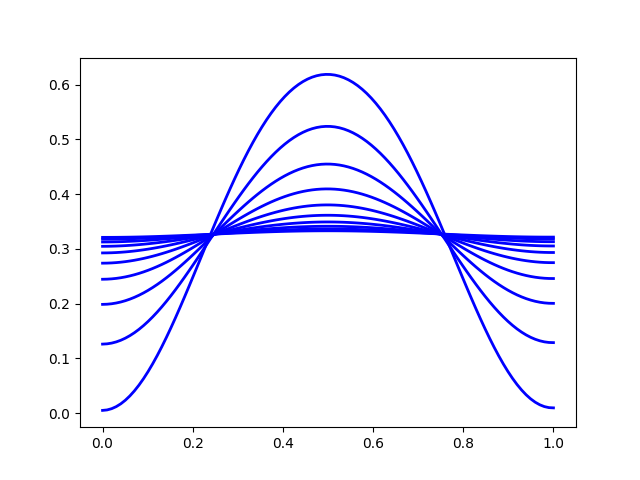
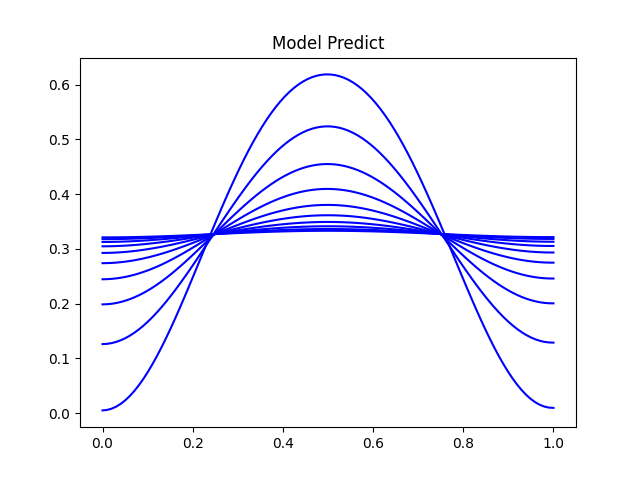
Refactor JAJSJSJAJS

diff --git a/neumann/main.py b/neumann/main.py
@@ -26,12 +26,17 @@ def plot2Heat(model):
 
 def plot_exact():
     sample = 100
-    t = np.linspace(0, 1, 10)
+    t = np.linspace(0.1, 1, 9)
+    x = np.linspace(0, 1, sample)
+    y_ = heat_function(x, 0)
+    plt.plot(x, y_, color='red', label=r'$u(x,0)=10(x-x^{2})^{2}$')
     for i in t:
         x = np.linspace(0, 1, sample)
         y = heat_function(x, i)
-        plt.plot(x, y, color='red')
-    plt.savefig("neumann/plots/exact.png")
+        plt.plot(x, y, color='red')  # , label=f'{i.max():.2f}')
+    plt.title("Exact Solution")
+    plt.legend()
+    plt.savefig("neumann/plots/exact_plot.png")
 
 
 def plot_predict(model):
@@ -43,68 +48,33 @@ def plot_predict(model):
         for i in x_n:
             t = torch.ones((sample)).unsqueeze(1) * i
             y = model(x, t)
-            plt.plot(x, y, linewidth=2, color='blue')
+            plt.plot(x, y, color='blue')
+    plt.title('Model Predict')
     plt.savefig("neumann/plots/predicted.png")
 
 
 def plot_both(model):
     sample = 10000
     t = np.linspace(0, 1, 10)
-    for i in t:
+    x = np.linspace(0, 1, sample)
+    y = heat_function(x, 0)
+    plt.plot(x, y, color='red', label='Exact')
+
+    for i in t[1:]:
         x = np.linspace(0, 1, sample)
         y = heat_function(x, i)
-        plt.plot(x, y, color='red')
+        plt.plot(x, y, linewidth=1, color='red')
     with torch.no_grad():
         x = torch.linspace(0, 1, sample).unsqueeze(1)
-        for i in t:
+        t_ = torch.zeros((sample)).unsqueeze(1)
+        y = model(x, t_)
+        plt.plot(x, y, linewidth=1, color='blue', label='Predict')
+        for i in t[1:]:
             t = torch.ones((sample)).unsqueeze(1) * i
             y = model(x, t)
-            plt.plot(x, y, linewidth=1, color='blue', label='predict')
+            plt.plot(x, y, linewidth=1, color='blue')
     plt.legend()
-    plt.show()
-    #plt.savefig("neumann/plots/both.png")
-
-
-"""
-def plot3Heat(model, t_max=1.0, nx=100, nt=100, save_path=None):
-
-    Create a 3D surface of u(x,t) from the PINN `model`.
-    - t_max: maximum time to plot (same units used in training)
-    - nx, nt: grid resolution for x and t
-    - save_path: if given, save figure to this path
-
-    # build numpy grids (2D arrays)
-    x_np = np.linspace(0, 1, nx)
-    t_np = np.linspace(0, t_max, nt)
-    X, T = np.meshgrid(x_np, t_np)  # shapes (nt, nx)
-
-    # make flattened torch inputs (N,1)
-    X_flat = torch.from_numpy(X.ravel()).float().unsqueeze(1)
-    T_flat = torch.from_numpy(T.ravel()).float().unsqueeze(1)
-
-    # evaluate model
-    model.eval()
-    with torch.no_grad():
-        Y_flat = model(X_flat, T_flat).cpu().numpy().ravel()
-
-    # reshape back to grid shape for plotting
-    Y = Y_flat.reshape(X.shape)
-
-    # clear/prepare axes
-    global ax
-    ax.clear()
-    surf = ax.plot_surface(X, T, Y, cmap='viridis', linewidth=0, antialiased=True)
-    ax.set_xlabel('x')
-    ax.set_ylabel('t')
-    ax.set_zlabel('u(x,t)')
-    ax.set_title(rf'PINN solution, $\alpha={alpha}$')
-    fig.colorbar(surf, ax=ax, shrink=0.5, aspect=10)
-
-    if save_path:
-        plt.savefig(save_path, dpi=200, bbox_inches='tight')
-    else:
-        plt.show()
-"""
+    plt.savefig("neumann/plots/both.png", dpi=500)
 
 
 def fourier_series(n):
@@ -230,9 +200,10 @@ def train_pinn(
     return model
 
 
-if __name__ == "main":
+if __name__ == "__main__":
     model = NeuralNetwork()
     save_path = "parameter_colab_tpu.pth"
     loaded = torch.load(save_path)
     model.load_state_dict(loaded["model_state_dict"])
     model.eval()
+    plot_both(model)

diff --git a/neumann/3dplot.py b/neumann/3dplot.py
@@ -1,0 +1,39 @@
+def plot3Heat(model, t_max=1.0, nx=100, nt=100, save_path=None):
+    """
+    Create a 3D surface of u(x,t) from the PINN `model`.
+    - t_max: maximum time to plot (same units used in training)
+    - nx, nt: grid resolution for x and t
+    - save_path: if given, save figure to this path
+    """
+
+    # build numpy grids (2D arrays)
+    x_np = np.linspace(0, 1, nx)
+    t_np = np.linspace(0, t_max, nt)
+    X, T = np.meshgrid(x_np, t_np)  # shapes (nt, nx)
+
+    # make flattened torch inputs (N,1)
+    X_flat = torch.from_numpy(X.ravel()).float().unsqueeze(1)
+    T_flat = torch.from_numpy(T.ravel()).float().unsqueeze(1)
+
+    # evaluate model
+    model.eval()
+    with torch.no_grad():
+        Y_flat = model(X_flat, T_flat).cpu().numpy().ravel()
+
+    # reshape back to grid shape for plotting
+    Y = Y_flat.reshape(X.shape)
+
+    # clear/prepare axes
+    global ax
+    ax.clear()
+    surf = ax.plot_surface(X, T, Y, cmap='viridis', linewidth=0, antialiased=True)
+    ax.set_xlabel('x')
+    ax.set_ylabel('t')
+    ax.set_zlabel('u(x,t)')
+    ax.set_title(rf'PINN solution, $\alpha={alpha}$')
+    fig.colorbar(surf, ax=ax, shrink=0.5, aspect=10)
+
+    if save_path:
+        plt.savefig(save_path, dpi=200, bbox_inches='tight')
+    else:
+        plt.show()

diff --git a/animation/main2.py b/animation/main2.py
@@ -1,0 +1,35 @@
+import torch
+import matplotlib.pyplot as plt
+import numpy as np
+
+# fake "true" data
+x = torch.linspace(-2, 2, 100).unsqueeze(1)
+y_true = x**3 + 0.1*torch.randn_like(x)
+
+# simple net
+import torch.nn as nn
+net = nn.Sequential(nn.Linear(1, 50), nn.ReLU(), nn.Linear(50,1))
+opt = torch.optim.Adam(net.parameters(), lr=0.01)
+loss_fn = nn.MSELoss()
+
+plt.ion()
+fig, ax = plt.subplots()
+
+for epoch in range(500):
+    opt.zero_grad()
+    y_pred = net(x)
+    loss = loss_fn(y_pred, y_true)
+    loss.backward()
+    opt.step()
+    
+    # plot predictions vs true
+    ax.clear()
+    ax.scatter(x.numpy(), y_true.numpy(), label="True data", alpha=0.5)
+    ax.plot(x.numpy(), y_pred.detach().numpy(), 'r-', label="Prediction")
+    ax.legend()
+    ax.set_title(f"Epoch {epoch}, Loss={loss.item():.4f}")
+    
+    plt.pause(0.2)
+
+plt.ioff()
+plt.show()
